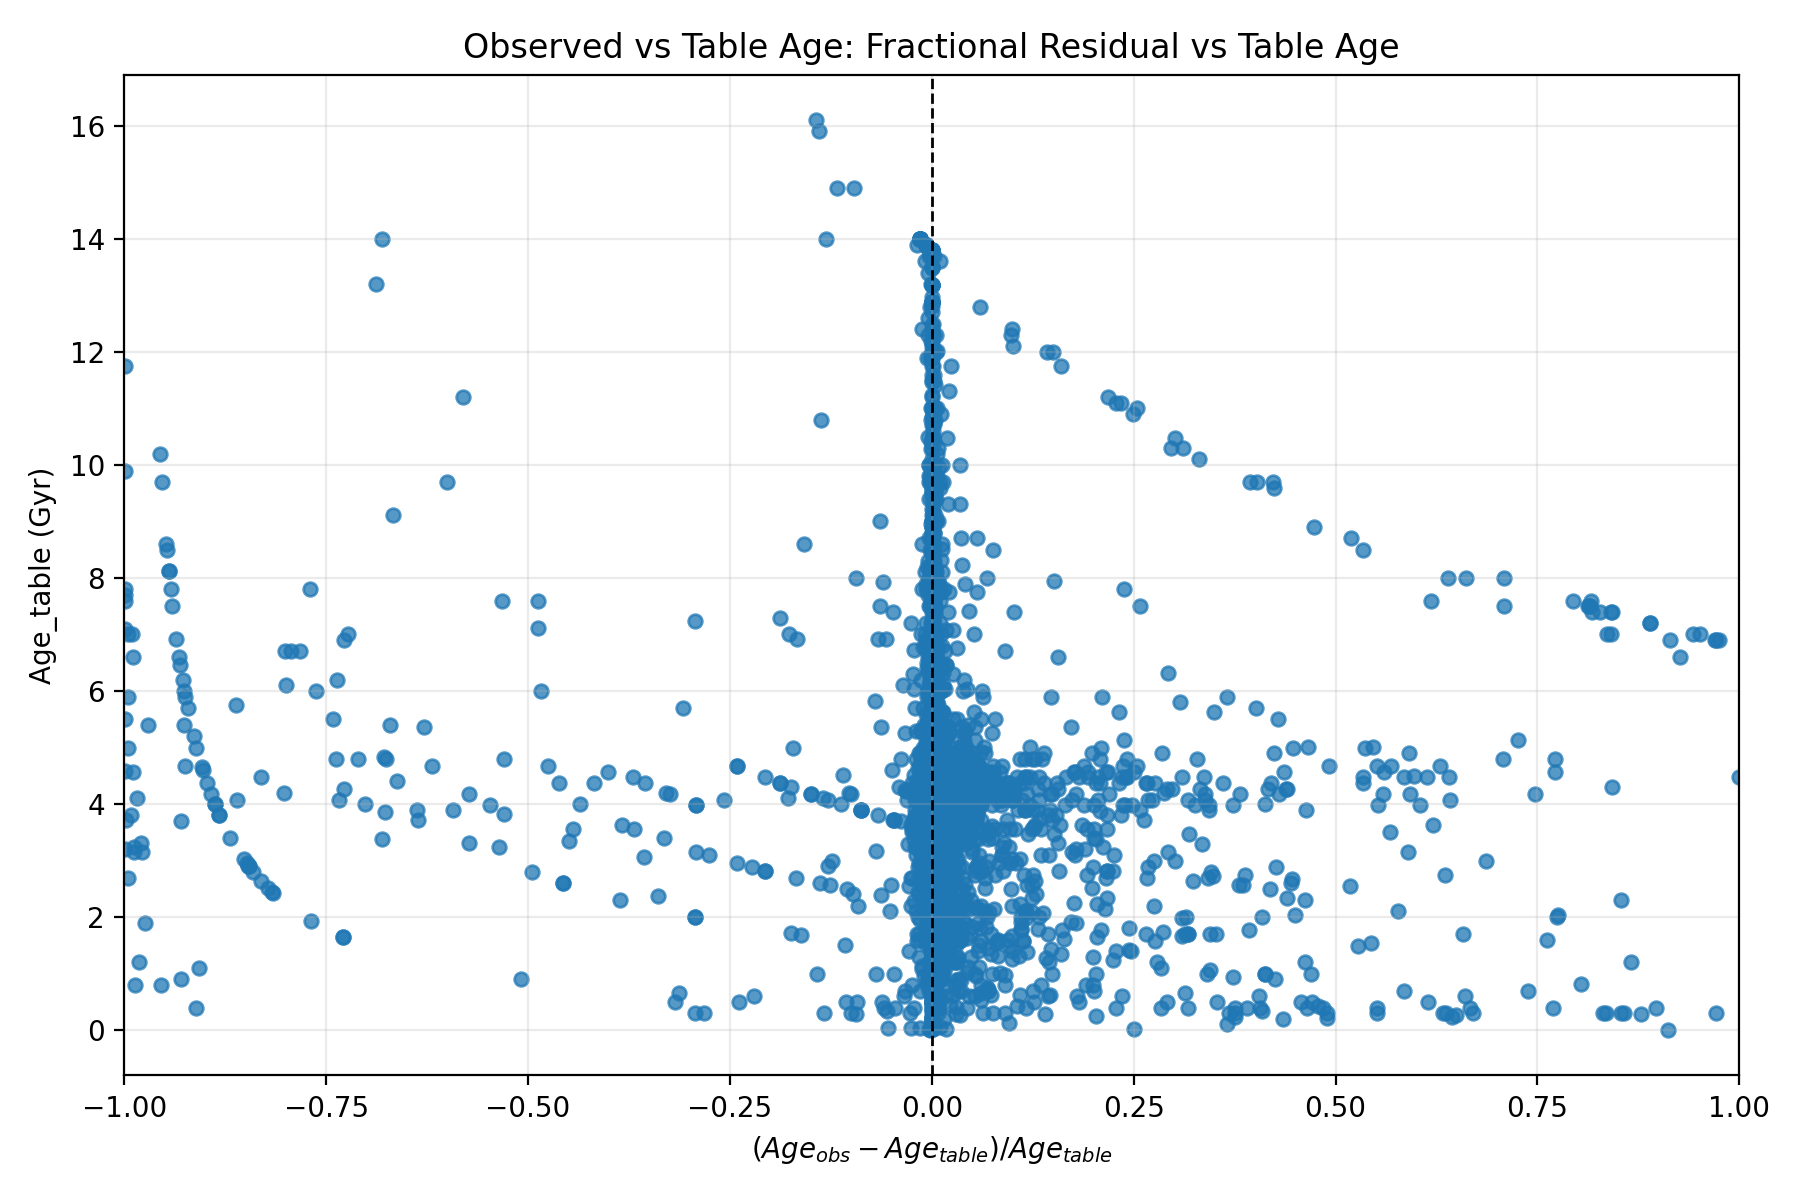
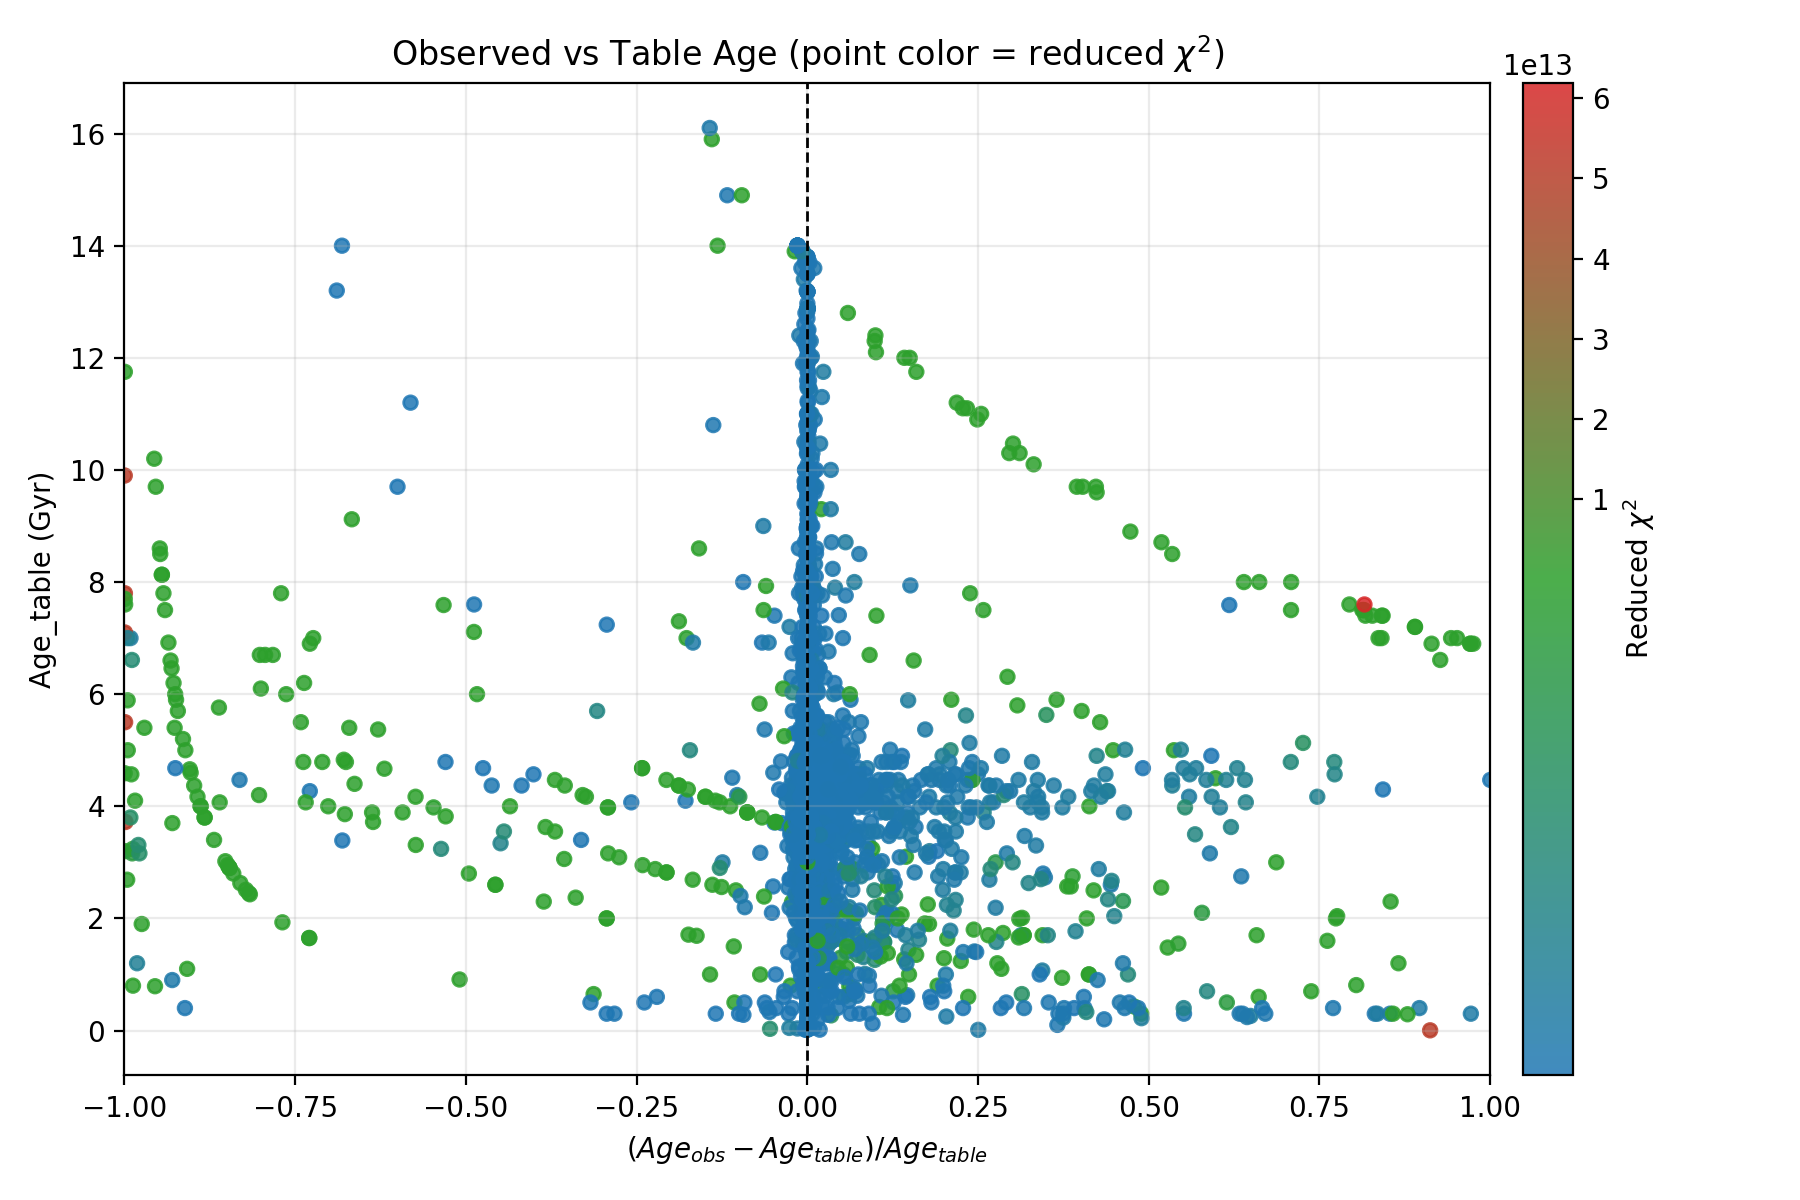
Added reduced chi^2 function to plot

diff --git a/src/astr502/services/plots.py b/src/astr502/services/plots.py
@@ -7,7 +7,7 @@ import matplotlib.pyplot as plt
 import numpy as np
 from matplotlib.colors import LinearSegmentedColormap, TwoSlopeNorm
 
-from astr502.domain.stats import reduced_chi2_from_csv
+from src.astr502.domain.stats import reduced_chi2_from_csv
 
 
 def plot_observed_vs_table_age_scatter(
